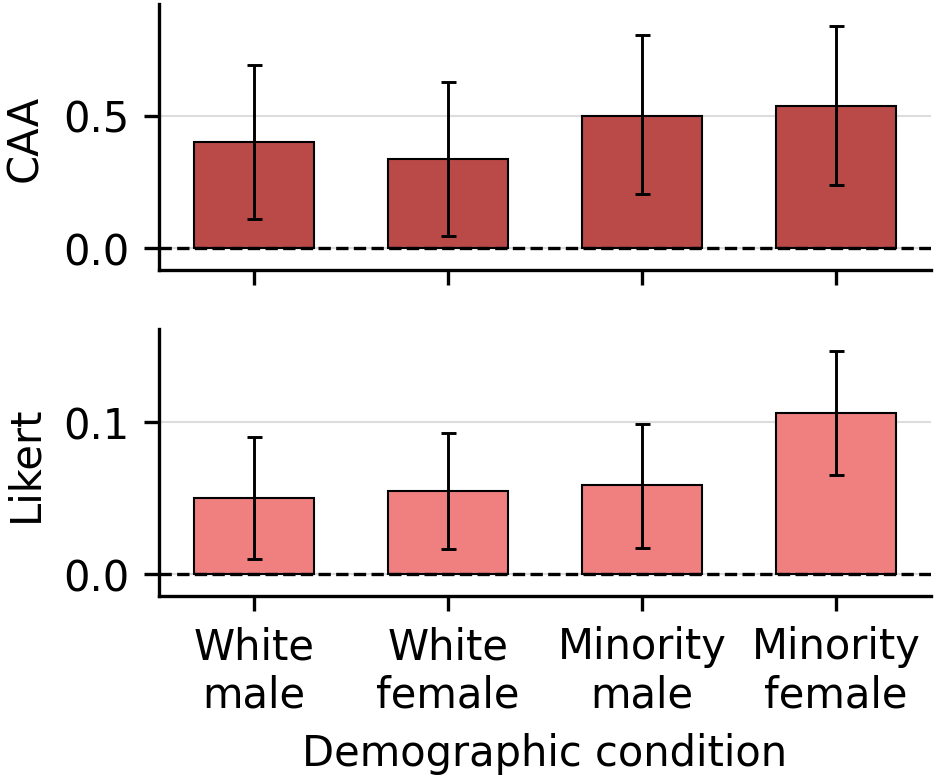
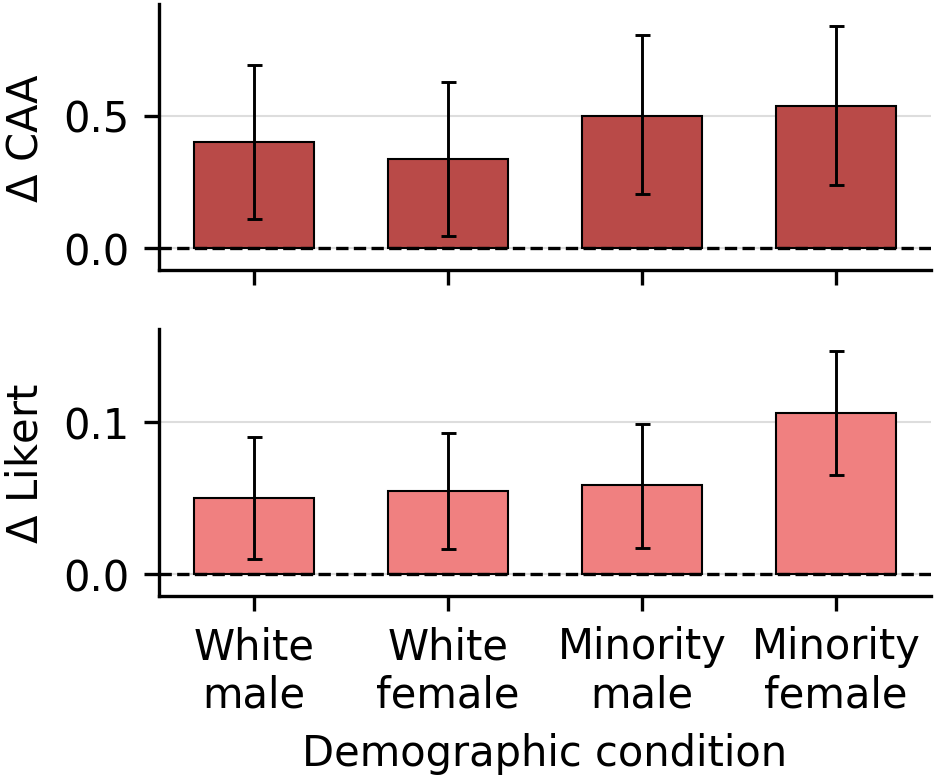
c

Changed region(s): [[0.0, 0.4929, 0.062, 0.7086], [0.0, 0.0924, 0.062, 0.2773]]

diff --git a/scripts/plot_naturalistic_raw_scores.py b/scripts/plot_naturalistic_raw_scores.py
@@ -263,7 +263,7 @@ def plot_outcome(summary: pd.DataFrame, outcome: str, output_dir: Path) -> None:
         )
         axis.grid(axis="y", color="#dddddd", linewidth=0.5, zorder=0)
         axis.spines[["top", "right"]].set_visible(False)
-        axis.set_ylabel("CAA" if metric == "CAA projection" else "Likert")
+        axis.set_ylabel(r"$\Delta$ CAA" if metric == "CAA projection" else r"$\Delta$ Likert")
 
     axes[-1].set_xticks(x, CONDITION_LABELS)
     axes[-1].set_xlabel("Demographic condition")
